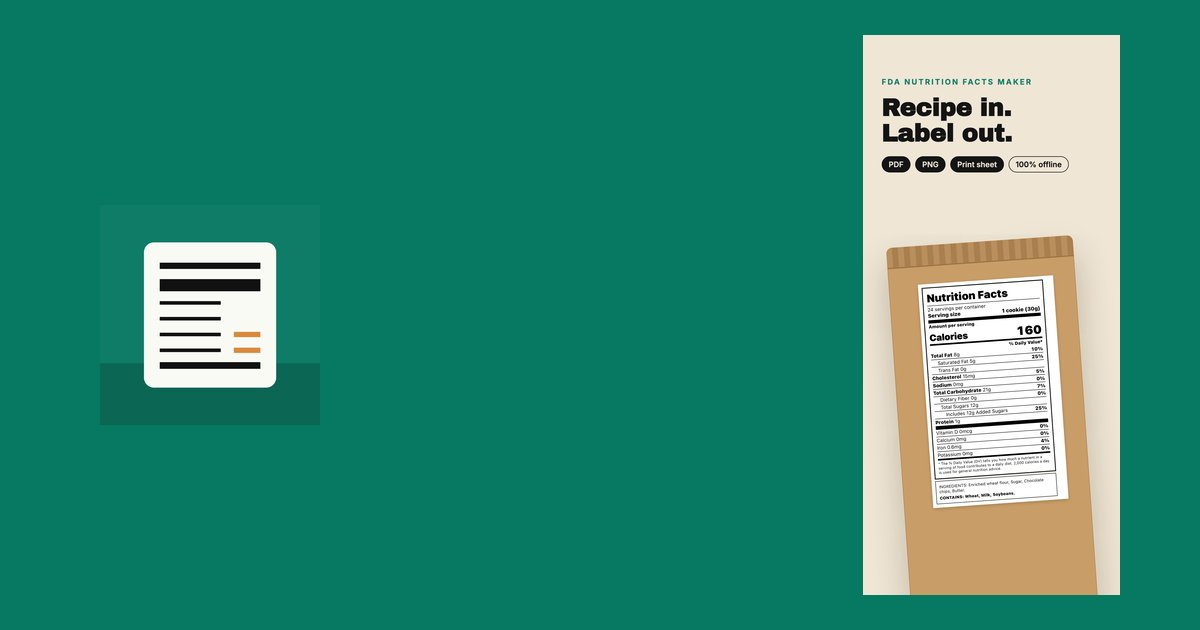
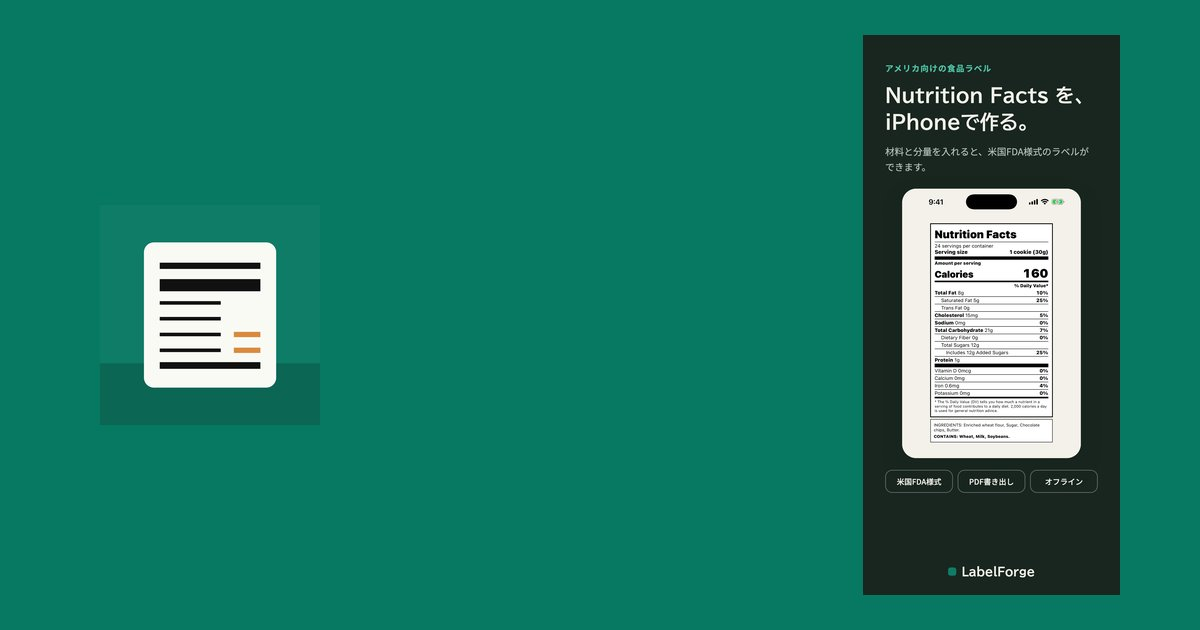
lp: LabelForge 1.3.0 の日本語対応を反映

Changed region(s): [[0.7092, 0.0302, 0.9558, 0.9651]]

diff --git a/labelforge/index.html b/labelforge/index.html
@@ -1,25 +1,25 @@
 <!DOCTYPE html>
-<html lang="en">
+<html lang="ja">
 <head>
 <meta charset="UTF-8">
 <meta name="viewport" content="width=device-width, initial-scale=1.0">
-<title>LabelForge: Nutrition Facts for iPhone</title>
-<meta name="description" content="New: an ingredient library. Save an ingredient once, reuse it in every recipe, and update every label when a supplier spec changes.">
+<title>LabelForge 米国FDA栄養成分ラベル｜iPhoneアプリ</title>
+<meta name="description" content="米国 FDA 様式の Nutrition Facts パネルを iPhone で。材料の 100g あたり栄養値から自動で丸め、PDF・PNG・印刷シートに。完全オフライン。日本の食品表示基準には準拠しません。">
 <link rel="canonical" href="https://madeinchimpanzee.github.io/app-legal/labelforge/">
 <link rel="icon" href="img/icon.png">
 <link rel="apple-touch-icon" href="img/icon.png">
 <meta name="google-site-verification" content="sShjuGj1yH0nU52rMidScKj6U2jCQEzeScjimU436s0">
 <script defer src="https://static.cloudflareinsights.com/beacon.min.js" data-cf-beacon='{"token": "19cc6d39518c47219628c5f1152f72c9"}'></script>
 <meta property="og:type" content="website">
-<meta property="og:title" content="LabelForge: Nutrition Facts for iPhone">
-<meta property="og:description" content="New: an ingredient library. Save an ingredient once, reuse it in every recipe, and update every label when a supplier spec changes.">
+<meta property="og:title" content="LabelForge 米国FDA栄養成分ラベル｜iPhoneアプリ">
+<meta property="og:description" content="米国 FDA 様式の Nutrition Facts パネルを iPhone で。材料の 100g あたり栄養値から自動で丸め、PDF・PNG・印刷シートに。完全オフライン。日本の食品表示基準には準拠しません。">
 <meta property="og:url" content="https://madeinchimpanzee.github.io/app-legal/labelforge/">
 <meta property="og:image" content="https://madeinchimpanzee.github.io/app-legal/labelforge/img/og.jpg">
 <meta property="og:locale" content="ja_JP">
 <meta name="twitter:card" content="summary_large_image">
 <meta name="apple-itunes-app" content="app-id=6795532938">
-<script type="application/ld+json">{"@context": "https://schema.org", "@type": "SoftwareApplication", "name": "LabelForge: Nutrition Facts", "operatingSystem": "iOS", "applicationCategory": "MobileApplication", "description": "New: an ingredient library. Save an ingredient once, reuse it in every recipe, and update every label when a supplier spec changes.", "image": "https://madeinchimpanzee.github.io/app-legal/labelforge/img/icon.png", "url": "https://madeinchimpanzee.github.io/app-legal/labelforge/", "installUrl": "https://apps.apple.com/us/app/id6795532938?ct=lp", "offers": {"@type": "Offer", "price": "0", "priceCurrency": "USD"}, "author": {"@type": "Organization", "name": "MadeInChimpanzee"}}</script>
-<script type="application/ld+json">{"@context": "https://schema.org", "@type": "FAQPage", "mainEntity": [{"@type": "Question", "name": "How much does it cost?", "acceptedAnswer": {"@type": "Answer", "text": "A one-time purchase. No subscription."}}, {"@type": "Question", "name": "Where is my data stored?", "acceptedAnswer": {"@type": "Answer", "text": "Only on your iPhone. No account and no sign-in required."}}, {"@type": "Question", "name": "Which devices are supported?", "acceptedAnswer": {"@type": "Answer", "text": "iPhone, from the App Store."}}, {"@type": "Question", "name": "How do I get in touch?", "acceptedAnswer": {"@type": "Answer", "text": "Email suportapps44@gmail.com."}}]}</script>
+<script type="application/ld+json">{"@context": "https://schema.org", "@type": "SoftwareApplication", "name": "LabelForge 米国FDA栄養成分ラベル", "operatingSystem": "iOS", "applicationCategory": "MobileApplication", "description": "米国 FDA 様式の Nutrition Facts パネルを iPhone で。材料の 100g あたり栄養値から自動で丸め、PDF・PNG・印刷シートに。完全オフライン。日本の食品表示基準には準拠しません。", "image": "https://madeinchimpanzee.github.io/app-legal/labelforge/img/icon.png", "url": "https://madeinchimpanzee.github.io/app-legal/labelforge/", "installUrl": "https://apps.apple.com/jp/app/id6795532938?ct=lp", "offers": {"@type": "Offer", "price": "0", "priceCurrency": "JPY"}, "author": {"@type": "Organization", "name": "MadeInChimpanzee"}}</script>
+<script type="application/ld+json">{"@context": "https://schema.org", "@type": "FAQPage", "mainEntity": [{"@type": "Question", "name": "料金はかかりますか？", "acceptedAnswer": {"@type": "Answer", "text": "買い切り ¥1,800（サブスクではありません）。"}}, {"@type": "Question", "name": "対応機種は？", "acceptedAnswer": {"@type": "Answer", "text": "iPhone（App Store から入手）。"}}, {"@type": "Question", "name": "問い合わせ先は？", "acceptedAnswer": {"@type": "Answer", "text": "メール suportapps44@gmail.com までご連絡ください。"}}]}</script>
 <style>
 :root{--accent:#077862;--accent-dark:#055D4C;--accent-tint:#E1EEEC;--ink:#1F2430;--muted:#5F6673;--line:#E6E8EC;--bg:#FFFFFF}
 *{box-sizing:border-box;margin:0;padding:0}
@@ -67,6 +67,7 @@ details p{font-size:14px;color:var(--muted);padding:8px 0 4px}
 .cta{background:var(--accent-tint);border-radius:22px;padding:34px 22px;text-align:center}
 .cta h2{border:0;padding:0;display:block;margin-bottom:10px;font-size:22px}
 .cta p{color:var(--muted);font-size:14px;margin-bottom:18px}
+.cta .devnote{margin:14px 0 0;font-size:13px}
 .kw{display:flex;flex-wrap:wrap;gap:6px;margin-top:14px}
 .kw span{font-size:11.5px;color:var(--muted);background:#F1F3F6;border-radius:999px;padding:3px 10px}
 footer{border-top:1px solid var(--line);padding:26px 0 40px;font-size:13px;color:var(--muted)}
@@ -85,115 +86,112 @@ footer .notice{font-size:11.5px;margin-top:10px}
 <header class="top"><div class="wrap">
   <img src="img/icon.png" alt="" width="36" height="36">
   <span class="name">LabelForge</span>
-  <a class="btn cta-top" href="https://apps.apple.com/us/app/id6795532938?ct=lp" rel="noopener">View on the App Store</a>
+  <a class="btn cta-top" href="https://apps.apple.com/jp/app/id6795532938?ct=lp" rel="noopener">App Store で見る</a>
 </div></header>
 
 <section class="hero"><div class="wrap">
   <div>
     <img class="icon" src="img/icon.png" alt="LabelForge のアイコン" width="96" height="96">
-    <h1>LabelForge: Nutrition Facts</h1>
-    <p class="sub">FDA food label maker &amp; PDF</p>
-    <p class="lead">New: an ingredient library. Save an ingredient once, reuse it in every recipe, and update every label when a supplier spec changes.</p>
-    <a class="btn" href="https://apps.apple.com/us/app/id6795532938?ct=lp" rel="noopener"><svg viewBox="0 0 24 24" aria-hidden="true"><path d="M16.7 12.6c0-2.6 2.1-3.8 2.2-3.9-1.2-1.8-3.1-2-3.7-2-1.6-.2-3.1.9-3.9.9-.8 0-2-.9-3.3-.9-1.7 0-3.3 1-4.2 2.5-1.8 3.1-.5 7.8 1.3 10.3.9 1.2 1.9 2.6 3.2 2.6 1.3-.1 1.8-.8 3.3-.8s2 .8 3.3.8c1.4 0 2.3-1.3 3.1-2.5 1-1.4 1.4-2.8 1.4-2.9-.1 0-2.7-1-2.7-4.1zM14.2 5c.7-.8 1.1-2 1-3.1-1 0-2.2.7-2.9 1.5-.6.7-1.2 1.9-1 3 1.1.1 2.2-.5 2.9-1.4z"/></svg>Download on the App Store</a>
-    <p class="price">A one-time purchase. No subscription.</p>
+    <h1>LabelForge 米国FDA栄養成分ラベル</h1>
+    <p class="sub">アメリカ向け Nutrition Facts 作成・PDF</p>
+    <p class="lead">米国 FDA 様式の Nutrition Facts パネルを iPhone で。材料の 100g あたり栄養値から自動で丸め、PDF・PNG・印刷シートに。完全オフライン。日本の食品表示基準には準拠しません。</p>
+    <a class="btn" href="https://apps.apple.com/jp/app/id6795532938?ct=lp" rel="noopener"><svg viewBox="0 0 24 24" aria-hidden="true"><path d="M16.7 12.6c0-2.6 2.1-3.8 2.2-3.9-1.2-1.8-3.1-2-3.7-2-1.6-.2-3.1.9-3.9.9-.8 0-2-.9-3.3-.9-1.7 0-3.3 1-4.2 2.5-1.8 3.1-.5 7.8 1.3 10.3.9 1.2 1.9 2.6 3.2 2.6 1.3-.1 1.8-.8 3.3-.8s2 .8 3.3.8c1.4 0 2.3-1.3 3.1-2.5 1-1.4 1.4-2.8 1.4-2.9-.1 0-2.7-1-2.7-4.1zM14.2 5c.7-.8 1.1-2 1-3.1-1 0-2.2.7-2.9 1.5-.6.7-1.2 1.9-1 3 1.1.1 2.2-.5 2.9-1.4z"/></svg>App Store からダウンロード</a>
+    <p class="price">買い切り ¥1,800（サブスクではありません）。</p>
   </div>
-  <div class="phone"><img src="img/ss-04.jpg" alt="LabelForge screen" width="540"></div>
+  <div class="phone"><img src="img/ss-02.jpg" alt="LabelForge の画面" width="540"></div>
 </div></section>
 
 <section><div class="wrap">
-  <h2>What it does</h2>
+  <h2>できること</h2>
   <div class="cards">
-<div class="card"><h3>HOW IT WORKS</h3><p>Add each ingredient with its nutrient values per 100 g (from your supplier spec sheet or a nutrient database) and the grams used. Set servings per container and the serving size. LabelForge sums the batch, divides per serving, and applies the FDA rounding rules automatically. Preview the panel live and export a high-resolution PDF or PNG.</p></div>
-<div class="card"><h3>INGREDIENT LIBRARY</h3><p>Save an ingredient once — nutrients per 100 g and allergens — and pick it in any recipe. Already have recipes? Add all their ingredients to the library in one tap. Supplier changed a spec? Edit the library ingredient and LabelForge offers to update every recipe that uses it. Recipes never change silently. Duplicate a recipe to make a new flavor or size in seconds.</p></div>
-<div class="card"><h3>INGREDIENT LIST AND ALLERGENS</h3><p>Ingredients are listed in descending order by weight, ready for the label. Tag the nine US major allergens on each ingredient (milk, eggs, fish, crustacean shellfish, tree nuts, peanuts, wheat, soybeans, sesame) and LabelForge writes the CONTAINS statement, species included.</p></div>
-<div class="card"><h3>FINAL BATCH WEIGHT</h3><p>Baking and drying remove water, not nutrients. Enter the weight of the finished batch and the serving-size grams reflect it while nutrient totals stay the same.</p></div>
-<div class="card"><h3>PRINT SHEET</h3><p>Tile the label at real size (2.5 or 3 inches wide) on Letter or A4 with light cut lines. Print on label stock or plain paper.</p></div>
-<div class="card"><h3>DETERMINISTIC AND COMPLIANT</h3><p>Rounding follows 21 CFR 101.9(c): calories, fats, cholesterol, sodium, carbohydrates, fibers, sugars, added sugars, protein, and micronutrients. % Daily Values use the 2016 FDA Daily Value table; vitamins and minerals use the 2, 5 and 10 percent increments. Serving size grams and &quot;about&quot; servings per container follow 21 CFR 101.9(b). A built-in reference screen shows the exact rules and values used.</p></div>
+
   </div>
 </div></section>
 
 <section><div class="wrap">
-  <h2>Screens</h2>
+  <h2>画面</h2>
   <div class="shots">
-<figure class="shot"><img src="img/ss-01.jpg" alt="LabelForge screen 1" loading="eager" width="540"></figure>
-<figure class="shot"><img src="img/ss-02.jpg" alt="LabelForge screen 2" loading="lazy" width="540"></figure>
-<figure class="shot"><img src="img/ss-03.jpg" alt="LabelForge screen 3" loading="lazy" width="540"></figure>
-<figure class="shot"><img src="img/ss-04.jpg" alt="LabelForge screen 4" loading="lazy" width="540"></figure>
-<figure class="shot"><img src="img/ss-05.jpg" alt="LabelForge screen 5" loading="lazy" width="540"></figure>
-<figure class="shot"><img src="img/ss-06.jpg" alt="LabelForge screen 6" loading="lazy" width="540"></figure>
-<figure class="shot"><img src="img/ss-07.jpg" alt="LabelForge screen 7" loading="lazy" width="540"></figure>
+<figure class="shot"><img src="img/ss-01.jpg" alt="LabelForge の画面 1" loading="eager" width="540"></figure>
+<figure class="shot"><img src="img/ss-02.jpg" alt="LabelForge の画面 2" loading="lazy" width="540"></figure>
+<figure class="shot"><img src="img/ss-03.jpg" alt="LabelForge の画面 3" loading="lazy" width="540"></figure>
+<figure class="shot"><img src="img/ss-04.jpg" alt="LabelForge の画面 4" loading="lazy" width="540"></figure>
+<figure class="shot"><img src="img/ss-05.jpg" alt="LabelForge の画面 5" loading="lazy" width="540"></figure>
+<figure class="shot"><img src="img/ss-06.jpg" alt="LabelForge の画面 6" loading="lazy" width="540"></figure>
+<figure class="shot"><img src="img/ss-07.jpg" alt="LabelForge の画面 7" loading="lazy" width="540"></figure>
+<figure class="shot"><img src="img/ss-08.jpg" alt="LabelForge の画面 8" loading="lazy" width="540"></figure>
   </div>
 </div></section>
 
 <section><div class="wrap">
-  <h2>Details</h2>
+  <h2>詳しく</h2>
   <div class="detail">
-<p>LabelForge turns your recipe into a US FDA-format Nutrition Facts panel you can export as a PDF, PNG or print-ready sheet — right on your iPhone, fully offline.</p>
-<p>Built for small food businesses: cottage-food bakers, Etsy sellers, and small CPG brands who need a real label without paying a monthly subscription.</p>
-<h3>HOW IT WORKS</h3>
+<p>【はじめにお読みください】LabelForge が作るのは、米国 FDA の Nutrition Facts パネル（21 CFR 101.9・英語表記）だけです。日本の食品表示基準（消費者庁）には準拠しません。日本国内で販売する食品の栄養成分表示は、熱量・たんぱく質・脂質・炭水化物・食塩相当量の5項目を定められた様式で表示する決まりで（ナトリウムではなく食塩相当量）、このアプリの出力をそのまま使うことはできません。EU・英国の様式にも対応していません。アメリカ向けのラベルが必要な方のためのアプリです。</p>
+<p>レシピを入れると、米国 FDA 様式の Nutrition Facts パネルを作り、PDF・PNG・印刷用シートとして書き出します。すべて iPhone の中だけで、オフラインで動きます。</p>
+<p>小さな食品の作り手のために作りました。アメリカへ輸出する製菓・加工食品の個人事業、Etsy などで海外に売っている方、小ロットの食品ブランド。月額のサービスを契約しなくても、ちゃんとしたラベルが作れます。</p>
+<h2>使い方</h2>
 <ul>
-<li>Add each ingredient with its nutrient values per 100 g (from your supplier spec sheet or a nutrient database) and the grams used.</li>
-<li>Set servings per container and the serving size.</li>
-<li>LabelForge sums the batch, divides per serving, and applies the FDA rounding rules automatically.</li>
-<li>Preview the panel live and export a high-resolution PDF or PNG.</li>
+<li>材料ごとに、100g あたりの栄養値（供給元の仕様書や栄養データベースの値）と使用量を入れます</li>
+<li>1容器の食数と、1食の表記を決めます</li>
+<li>バッチを合算し、1食あたりに割り、FDA の丸め規則を自動で当てます</li>
+<li>できあがったパネルをその場で確認し、高解像度の PDF・PNG で書き出します</li>
 </ul>
-<h3>INGREDIENT LIBRARY</h3>
+<h2>材料ライブラリ</h2>
 <ul>
-<li>Save an ingredient once — nutrients per 100 g and allergens — and pick it in any recipe.</li>
-<li>Already have recipes? Add all their ingredients to the library in one tap.</li>
-<li>Supplier changed a spec? Edit the library ingredient and LabelForge offers to update every recipe that uses it. Recipes never change silently.</li>
-<li>Duplicate a recipe to make a new flavor or size in seconds.</li>
+<li>材料は一度登録すれば（100g あたりの栄養値とアレルゲン）、どのレシピでも選べます</li>
+<li>すでにあるレシピの材料は、ワンタップでまとめてライブラリに取り込めます</li>
+<li>仕入れ先の値が変わったら、ライブラリの材料を直すだけ。その材料を使うレシピを更新するか確認します。勝手には変わりません</li>
+<li>レシピの複製で、味違い・サイズ違いをすぐに作れます</li>
 </ul>
-<h3>INGREDIENT LIST AND ALLERGENS</h3>
+<h2>原材料名リストとアレルゲン</h2>
 <ul>
-<li>Ingredients are listed in descending order by weight, ready for the label.</li>
-<li>Tag the nine US major allergens on each ingredient (milk, eggs, fish, crustacean shellfish, tree nuts, peanuts, wheat, soybeans, sesame) and LabelForge writes the CONTAINS statement, species included.</li>
+<li>材料を重い順に並べた原材料名リストを作ります</li>
+<li>各材料に米国の主要9アレルゲン（乳・卵・魚・甲殻類・木の実・落花生・小麦・大豆・ごま）を付けると、種類の明記まで入った CONTAINS 文を書き出します</li>
 </ul>
-<h3>FINAL BATCH WEIGHT</h3>
+<h2>仕上がり重量</h2>
 <ul>
-<li>Baking and drying remove water, not nutrients. Enter the weight of the finished batch and the serving-size grams reflect it while nutrient totals stay the same.</li>
+<li>焼成や乾燥で抜けるのは水分で、栄養素は減りません。仕上がったバッチの重さを入れると、栄養合計はそのままに1食のグラム表記だけが正確になります</li>
 </ul>
-<h3>PRINT SHEET</h3>
+<h2>印刷シート</h2>
 <ul>
-<li>Tile the label at real size (2.5 or 3 inches wide) on Letter or A4 with light cut lines. Print on label stock or plain paper.</li>
+<li>Letter または A4 に、実寸（幅 2.5 インチ / 3 インチ）で面付けし、薄い裁ち線を付けます。ラベル用紙にも普通紙にも刷れます</li>
 </ul>
-<h3>DETERMINISTIC AND COMPLIANT</h3>
+<h2>決定論で、規則どおり</h2>
 <ul>
-<li>Rounding follows 21 CFR 101.9(c): calories, fats, cholesterol, sodium, carbohydrates, fibers, sugars, added sugars, protein, and micronutrients.</li>
-<li>% Daily Values use the 2016 FDA Daily Value table; vitamins and minerals use the 2, 5 and 10 percent increments.</li>
-<li>Serving size grams and &quot;about&quot; servings per container follow 21 CFR 101.9(b).</li>
-<li>A built-in reference screen shows the exact rules and values used.</li>
+<li>丸めは 21 CFR 101.9(c) に従います（カロリー・脂質・コレステロール・ナトリウム・炭水化物・食物繊維・糖類・添加糖類・たんぱく質・微量栄養素）</li>
+<li>%DV は 2016年の FDA 改定の基準値を使い、ビタミン・ミネラルは 2／5／10% 刻みです</li>
+<li>1食のグラム表記と「about」付きの食数は 21 CFR 101.9(b) に従います</li>
+<li>使っている規則と数値は、アプリ内の米国 FDA リファレンス画面でそのまま確認できます</li>
 </ul>
-<h3>PRIVATE BY DESIGN</h3>
+<h2>プライバシー</h2>
 <ul>
-<li>No account, no network, no tracking. Everything stays on your device.</li>
-<li>Back up and restore all your recipes as a JSON file.</li>
+<li>アカウント不要、通信なし、追跡なし。データは端末の中だけにあります</li>
+<li>全レシピと材料を JSON ファイルにバックアップし、機種変更時に読み込めます</li>
 </ul>
-<p>LabelForge is a drafting aid. You remain responsible for the final label; always verify against current FDA regulations before printing.</p>
+<p>LabelForge はラベル作成の補助です。最終的なラベルの責任は利用者にあります。印刷前に、必ず最新の FDA 規則で確認してください。日本国内向けの食品表示には使えません。</p>
   </div>
 </div></section>
 
 <section><div class="wrap">
-  <h2>FAQ</h2>
-<details><summary>How much does it cost?</summary><p>A one-time purchase. No subscription.</p></details>
-<details><summary>Where is my data stored?</summary><p>Only on your iPhone. No account and no sign-in required.</p></details>
-<details><summary>Which devices are supported?</summary><p>iPhone, from the App Store.</p></details>
-<details><summary>How do I get in touch?</summary><p>Email suportapps44@gmail.com.</p></details>
+  <h2>よくある質問</h2>
+<details><summary>料金はかかりますか？</summary><p>買い切り ¥1,800（サブスクではありません）。</p></details>
+<details><summary>対応機種は？</summary><p>iPhone（App Store から入手）。</p></details>
+<details><summary>問い合わせ先は？</summary><p>メール suportapps44@gmail.com までご連絡ください。</p></details>
 </div></section>
 
 <section><div class="wrap">
   <div class="cta">
-    <h2>Try LabelForge</h2>
-    <p>A one-time purchase. No subscription.</p>
-    <a class="btn" href="https://apps.apple.com/us/app/id6795532938?ct=lp" rel="noopener">Download on the App Store</a>
+    <h2>LabelForge を使ってみる</h2>
+    <p>買い切り ¥1,800（サブスクではありません）。</p>
+    <a class="btn" href="https://apps.apple.com/jp/app/id6795532938?ct=lp" rel="noopener">App Store からダウンロード</a>
+    
   </div>
-  <div class="kw"><span>ingredient</span> <span>allergen</span> <span>recipe</span> <span>panel</span> <span>cottage</span> <span>bakery</span> <span>cpg</span> <span>pdf</span> <span>print</span> <span>servings</span> <span>calories</span> <span>homemade</span></div>
+  <div class="kw"><span>輸出</span> <span>食品</span> <span>自家製</span> <span>焼き菓子</span> <span>製菓</span> <span>Etsy</span> <span>原材料</span> <span>アレルゲン</span> <span>カロリー</span> <span>印刷</span> <span>オフライン</span> <span>個人事業</span></div>
 </div></section>
 
 <footer><div class="wrap">
-  <p class="links"><a href="privacy.html">Privacy Policy</a><a href="terms.html">Terms of Use</a><a href="support.html">Support</a><a href="../apps/">All apps</a></p>
-  <p>© 2026 MadeInChimpanzee. Apple and App Store are trademarks of Apple Inc.</p>
-  <p class="notice">This page uses Cloudflare Web Analytics to count visits (page, referrer and approximate region; nothing that identifies you).</p>
+  <p class="links"><a href="privacy.html">プライバシーポリシー</a><a href="terms.html">利用規約</a><a href="support.html">サポート</a><a href="../apps/">アプリ一覧</a></p>
+  <p>© 2026 MadeInChimpanzee. Apple、App Store は Apple Inc. の商標です。</p>
+  <p class="notice">このページはアクセス数の把握のため Cloudflare Web Analytics を利用しています（閲覧ページ・参照元・おおよその地域などが送信されます。個人を特定する情報は含みません）。</p>
 </div></footer>
 </body>
 </html>

diff --git a/apps/index.html b/apps/index.html
@@ -40,7 +40,7 @@ footer{margin-top:30px;font-size:12.5px;color:#5F6673}
 <li><a href="../holdly/"><img src="../holdly/img/icon.png" alt="" width="56" height="56"><span><strong>Holdly – Isometric Timer</strong><small>Plank &amp; Wall Sit · auto +5s</small></span></a></li>
 <li><a href="../hoursledger/"><img src="../hoursledger/img/icon.png" alt="" width="56" height="56"><span><strong>HoursLedger: 勤務時間・給料計算</strong><small>シフトの残業と時給を週ごとに集計</small></span></a></li>
 <li><a href="../kotoba/"><img src="../kotoba/img/icon.png" alt="" width="56" height="56"><span><strong>Kotoba: Learn Japanese N5</strong><small>JLPT words, flashcards, audio</small></span></a></li>
-<li><a href="../labelforge/"><img src="../labelforge/img/icon.png" alt="" width="56" height="56"><span><strong>LabelForge: Nutrition Facts</strong><small>FDA food label maker &amp; PDF</small></span></a></li>
+<li><a href="../labelforge/"><img src="../labelforge/img/icon.png" alt="" width="56" height="56"><span><strong>LabelForge 米国FDA栄養成分ラベル</strong><small>アメリカ向け Nutrition Facts 作成・PDF</small></span></a></li>
 <li><a href="../lull/"><img src="../lull/img/icon.png" alt="" width="56" height="56"><span><strong>Lull - 赤ちゃんが落ち着くタッチあそび</strong><small>ぐずった時に、さわると泡や光がふわり</small></span></a></li>
 <li><a href="../macrocalc/"><img src="../macrocalc/img/icon.png" alt="" width="56" height="56"><span><strong>Macro Photo Calc: DOF</strong><small>Depth of Field &amp; Diffraction</small></span></a></li>
 <li><a href="../metropulse/"><img src="../metropulse/img/icon.png" alt="" width="56" height="56"><span><strong>MetroPulse: Metronome</strong><small>Tempo, tap tempo &amp; setlists</small></span></a></li>
